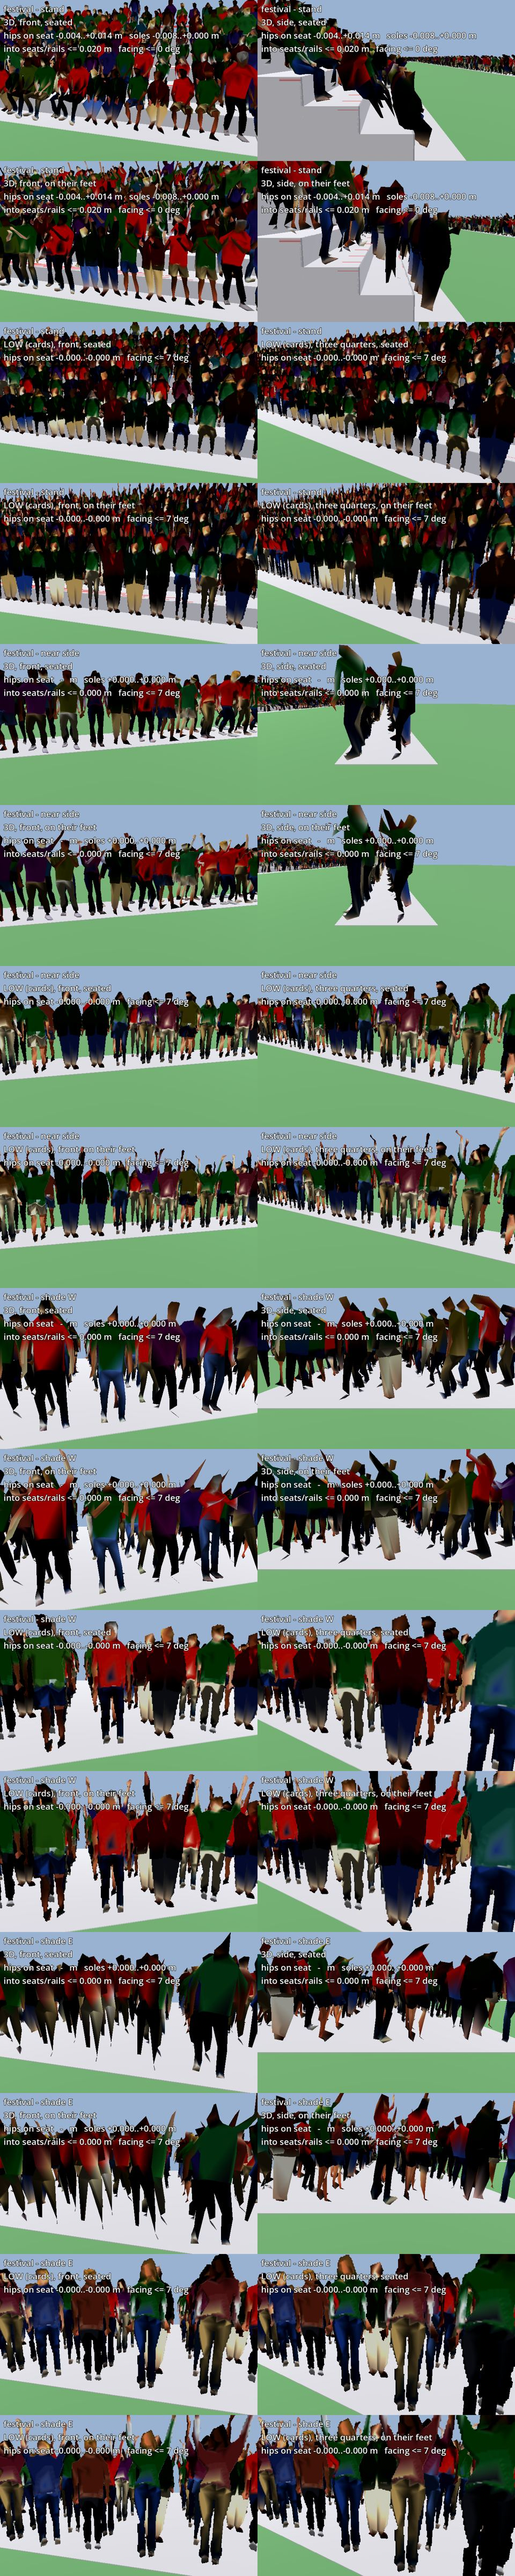
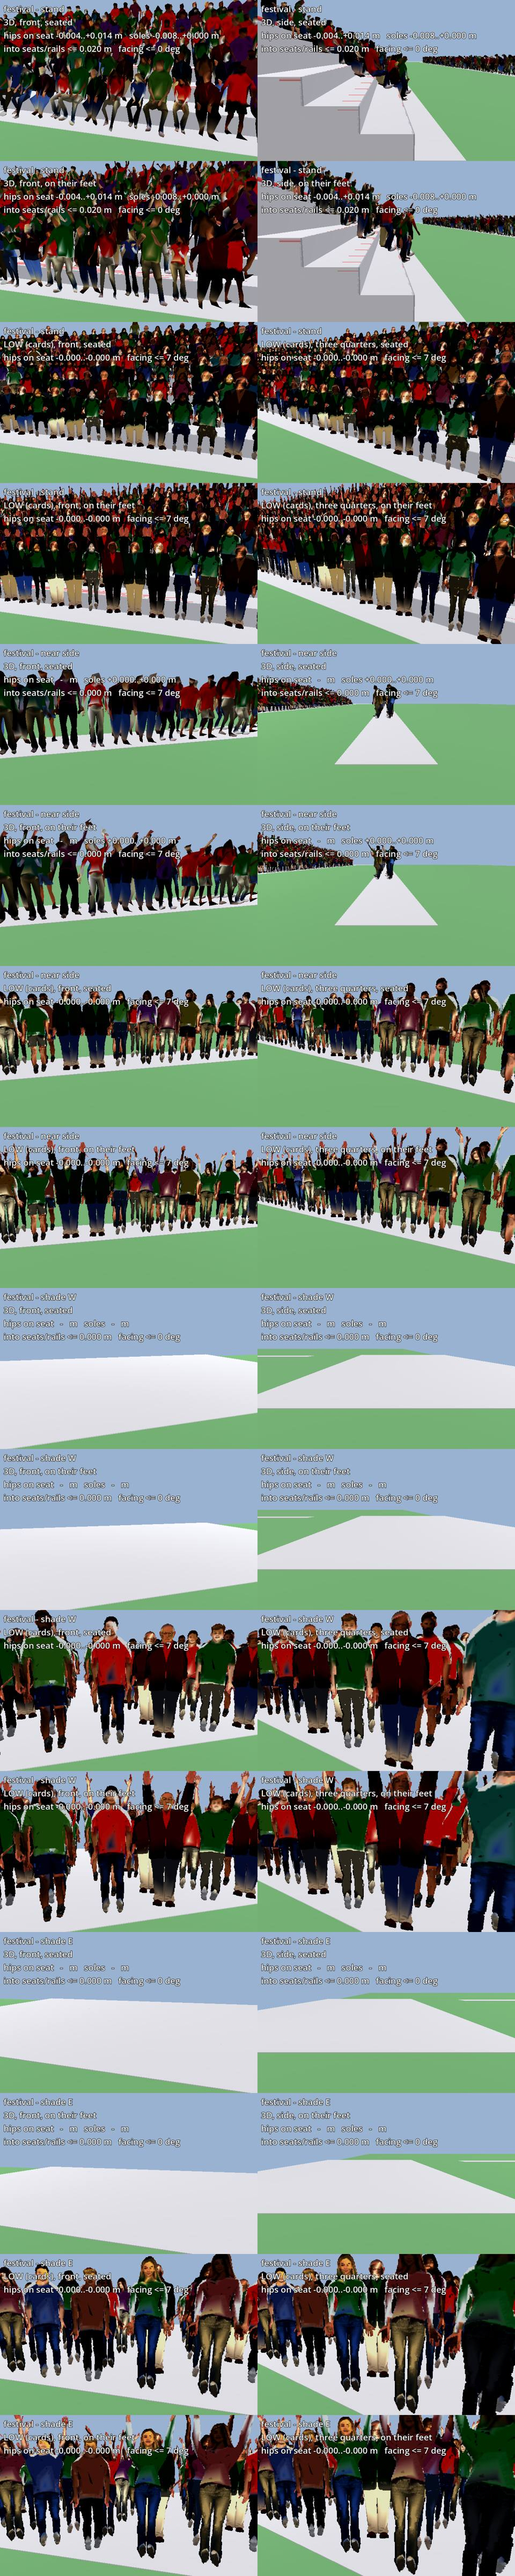
Pok Ta Pok Rivals 0.6.5-beta: the seated fans have faces
The shared foundation synced to ca57ce7: its Low cards are drawn from each
fan's whole textured model (real faces; cells 128x256) and take each
spot's shirt colour exactly. So the 0.6.4 workaround (a sheet cut down to
the three fans that read from the front) is gone: all six sit again, in
the shirts the game gives them (white, red, turquoise, yellow, pink, the
teams'), the cards' brightness set by its own knob (1.15) and the skin
tones a step lighter. Crowd audit passes at every venue; 780 checks.
Contact sheets refreshed (docs/playtest/crowd/). Version 0.6.5-beta,
code 17.

Claude-Session: https://claude.ai/code/session_01HdsmiiHaiy9fT5QbiA2oUY

diff --git a/pok-ta-pok-game/README.md b/pok-ta-pok-game/README.md
@@ -4,7 +4,7 @@ The hip ballgame of Mexico, for Android phones: **ulama de cadera** as it is sti
 Sinaloa, and the **classic stone court** of the old game, reconstructed from the chroniclers. Made in Godot 4.7 with
 the GL Compatibility renderer, for low, mid and high-end phones.
 
-> **Status: beta 0.6.4.** A full match by touch against the computer, both games, four courts, a town tournament,
+> **Status: beta 0.6.5.** A full match by touch against the computer, both games, four courts, a town tournament,
 > six languages; realistic players and townspeople (made with Meshy), a recorded run and serve (CMU motion capture),
 > the ring shot with its replay, the menus' own flute-and-drum music, and recorded sounds for the ball, the feet,
 > the crowd and each court's surroundings (docs/SOUNDS.md). See [docs/PROGRESS.md](docs/PROGRESS.md) for what is done and what comes next.

diff --git a/pok-ta-pok-game/docs/PROGRESS.md b/pok-ta-pok-game/docs/PROGRESS.md
@@ -256,6 +256,9 @@ Pok Ta Pok Rivals is the seventh game in the family. Branch `claude/pok-ta-pok-g
   are gone. The seated are the shared cards (the only seated figures), in local skin, hair and clothes, and only the
   fans the shared sheet draws from the front (some of its fans are baked from behind: reported); the standing stay
   this game's townspeople, turned to the play within 50 degrees of their place. Contact sheets: docs/playtest/crowd/.
+- **0.6.5-beta: the seated fans' faces.** The foundation's cards (ca57ce7) are now drawn from each fan's whole
+  textured model, faces and all, and take a spot's shirt colour exactly: all six fans sit again (0.6.4's cut-down
+  sheet of the three that read from the front is gone), in white, red, turquoise and the teams' colours.
 
 ## Next
 
